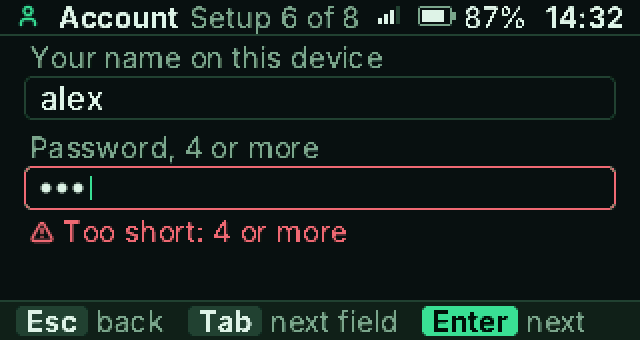
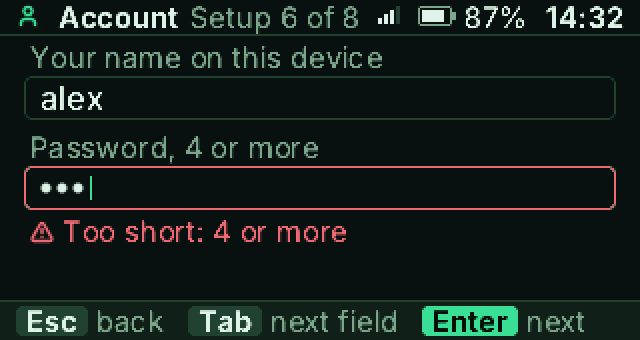
UI: small Inter edges one step softer
Sharpen 0.32 read as the hardest of the four on the panel; 0.22 is the
user's pick from the side by side.

diff --git a/crates/gh0st-ui/build.rs b/crates/gh0st-ui/build.rs
@@ -20,7 +20,7 @@ const MONO_SHARPEN: f32 = 0.2;
 /// letters unevenly) and gets no gamma lift, which widens the fringe. The
 /// sharpen is hard but keeps a fringe: with none, Inter's curves go jagged.
 const SMALL_SANS_EM: f32 = 18.0;
-const SMALL_SANS_SHARPEN: f32 = 0.32;
+const SMALL_SANS_SHARPEN: f32 = 0.22;
 /// Small sans text still reads soft, its stem edges at mid grey. An
 /// S-curve on coverage pushes fringes toward the background and cores toward
 /// the ink: 0 is linear, 1 a full smoothstep.
